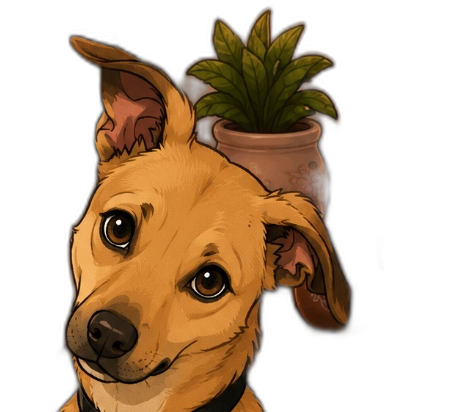
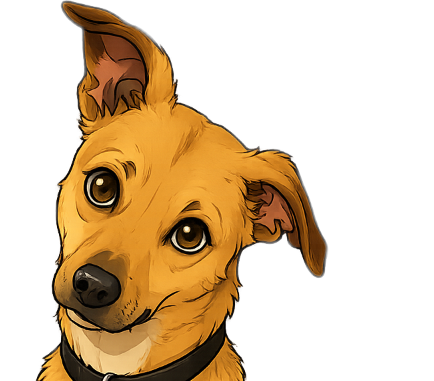
feat: posicionar perrita al lado de la cama e implementar interaccion de acariciar con tecla E y transicion a imagen feliz sonriendo con corazones

diff --git a/src/components/game/GameContainer.tsx b/src/components/game/GameContainer.tsx
@@ -81,6 +81,14 @@ export default function GameContainer() {
     let dogSideLoaded = dogSideImg.complete;
     dogSideImg.onload = () => { dogSideLoaded = true; };
 
+    const dogHappyImg = new window.Image();
+    dogHappyImg.src = "/dog_happy.png";
+    let dogHappyLoaded = dogHappyImg.complete;
+    dogHappyImg.onload = () => { dogHappyLoaded = true; };
+
+    let petTimer = 0;
+    const petHearts: Array<{x: number; y: number; vy: number; alpha: number; icon: string; size: number}> = [];
+
     // ---- Player & Dog State ----
     const player = {
       x: canvas.width * 0.5,
@@ -99,11 +107,11 @@ export default function GameContainer() {
 
     const dog = {
       x: canvas.width * 0.95,
-      targetX: canvas.width * 0.58,
+      targetX: canvas.width * 0.18, // Next to the bed
       y: canvas.height * 0.85,
       w: 32,
       h: 32,
-      speed: 4.0,
+      speed: 4.5,
       facing: "left" as "left" | "right",
       isMoving: false,
       hasEntered: false,
@@ -127,6 +135,17 @@ export default function GameContainer() {
         { id: "computer", x: w * 0.45, y: h * 0.70, w: w * 0.30, h: h * 0.30, label: "COMPUTADORA" },
         { id: "door", x: w * 0.85, y: h * 0.70, w: w * 0.12, h: h * 0.30, label: "PUERTA" },
       ];
+
+      if (dogUnlockedRef.current) {
+        interactables.push({
+          id: "pet_dog",
+          x: dog.x - 40,
+          y: dog.y - 120,
+          w: 80,
+          h: 140,
+          label: "ACARICIAR",
+        });
+      }
     };
 
     // Resize canvas & update objects
@@ -256,6 +275,20 @@ export default function GameContainer() {
           } else if (obj.id === "door") {
             audioEngine.interact();
             openWindow("door");
+          } else if (obj.id === "pet_dog") {
+            audioEngine.click();
+            petTimer = 180; // 3 seconds of happy smiling pose
+            // Spawn floating hearts
+            for (let k = 0; k < 6; k++) {
+              petHearts.push({
+                x: dog.x + (Math.random() - 0.5) * 50,
+                y: dog.y - 120 + (Math.random() - 0.5) * 25,
+                vy: -1.2 - Math.random() * 1.2,
+                alpha: 1.0,
+                icon: ["💖", "✨", "🌸", "💕"][Math.floor(Math.random() * 4)],
+                size: 16 + Math.floor(Math.random() * 8),
+              });
+            }
           }
           return;
         }
@@ -293,6 +326,19 @@ export default function GameContainer() {
           } else if (obj.id === "door") {
             audioEngine.interact();
             openWindow("door");
+          } else if (obj.id === "pet_dog") {
+            audioEngine.click();
+            petTimer = 180;
+            for (let k = 0; k < 6; k++) {
+              petHearts.push({
+                x: dog.x + (Math.random() - 0.5) * 50,
+                y: dog.y - 120 + (Math.random() - 0.5) * 25,
+                vy: -1.2 - Math.random() * 1.2,
+                alpha: 1.0,
+                icon: ["💖", "✨", "🌸", "💕"][Math.floor(Math.random() * 4)],
+                size: 16 + Math.floor(Math.random() * 8),
+              });
+            }
           }
           break;
         }
@@ -438,7 +484,20 @@ export default function GameContainer() {
         ctx!.ellipse(dx, dy + 22, 36, 8, 0, 0, Math.PI * 2);
         ctx!.fill();
 
-        if (dog.isMoving && dogSideLoaded) {
+        if (petTimer > 0 && dogHappyLoaded) {
+          petTimer--;
+          const targetH = 270;
+          const dh = targetH;
+          const dw = dh * (dogHappyImg.width / dogHappyImg.height);
+          const happyBob = Math.sin(now / 150) * 4;
+
+          ctx!.translate(dx, dy + happyBob);
+          if (dog.facing === "right") {
+            ctx!.scale(-1, 1);
+          }
+
+          ctx!.drawImage(dogHappyImg, -dw / 2, -dh + 32, dw, dh);
+        } else if (dog.isMoving && dogSideLoaded) {
           // Multi-frame walk cycle from sprite sheet
           const totalDogFrames = 2;
           const frameW = dogSideImg.width / totalDogFrames;
@@ -492,6 +551,22 @@ export default function GameContainer() {
         ctx!.fillRect(Math.round(p.x), Math.round(p.y), 2, 2);
       }
       ctx!.globalAlpha = 1.0;
+
+      // Draw floating heart & sparkle particles when petted
+      for (let i = petHearts.length - 1; i >= 0; i--) {
+        const h = petHearts[i];
+        h.y += h.vy;
+        h.alpha -= 0.015;
+        if (h.alpha <= 0) {
+          petHearts.splice(i, 1);
+          continue;
+        }
+        ctx!.save();
+        ctx!.globalAlpha = Math.max(0, h.alpha);
+        ctx!.font = `${h.size}px sans-serif`;
+        ctx!.fillText(h.icon, h.x, h.y);
+        ctx!.restore();
+      }
     }
 
     // ---- Draw Hint Labels ----
@@ -546,6 +621,18 @@ export default function GameContainer() {
               ctx!.textAlign = "left";
               ctx!.fillText("USAR", hx + 32, hy + 3);
             }
+          } else if (obj.id === "pet_dog") {
+            ctx!.fillStyle = "#F2A7BB";
+            ctx!.fillRect(hx - bubbleW / 2 + 6, hy - 9, 18, 16);
+            ctx!.fillStyle = "#2D2D3A";
+            ctx!.font = `bold 9px 'Press Start 2P'`;
+            ctx!.textAlign = "center";
+            ctx!.fillText("E", hx - bubbleW / 2 + 15, hy + 3);
+
+            ctx!.fillStyle = "#FFF8EF";
+            ctx!.font = `7px 'Press Start 2P'`;
+            ctx!.textAlign = "left";
+            ctx!.fillText("ACARICIAR 🐾", hx - bubbleW / 2 + 28, hy + 3);
           } else {
             ctx!.fillStyle = "#B39DDB";
             ctx!.fillRect(hx - bubbleW / 2 + 6, hy - 9, 18, 16);
@@ -597,6 +684,13 @@ export default function GameContainer() {
             dog.isMoving = false;
           }
         }
+      }
+
+      // Update pet_dog interactable position dynamically
+      const petObj = interactables.find((o) => o.id === "pet_dog");
+      if (petObj) {
+        petObj.x = dog.x - 40;
+        petObj.y = dog.y - 120;
       }
 
       // 2. Player Input Movement (Active Character)